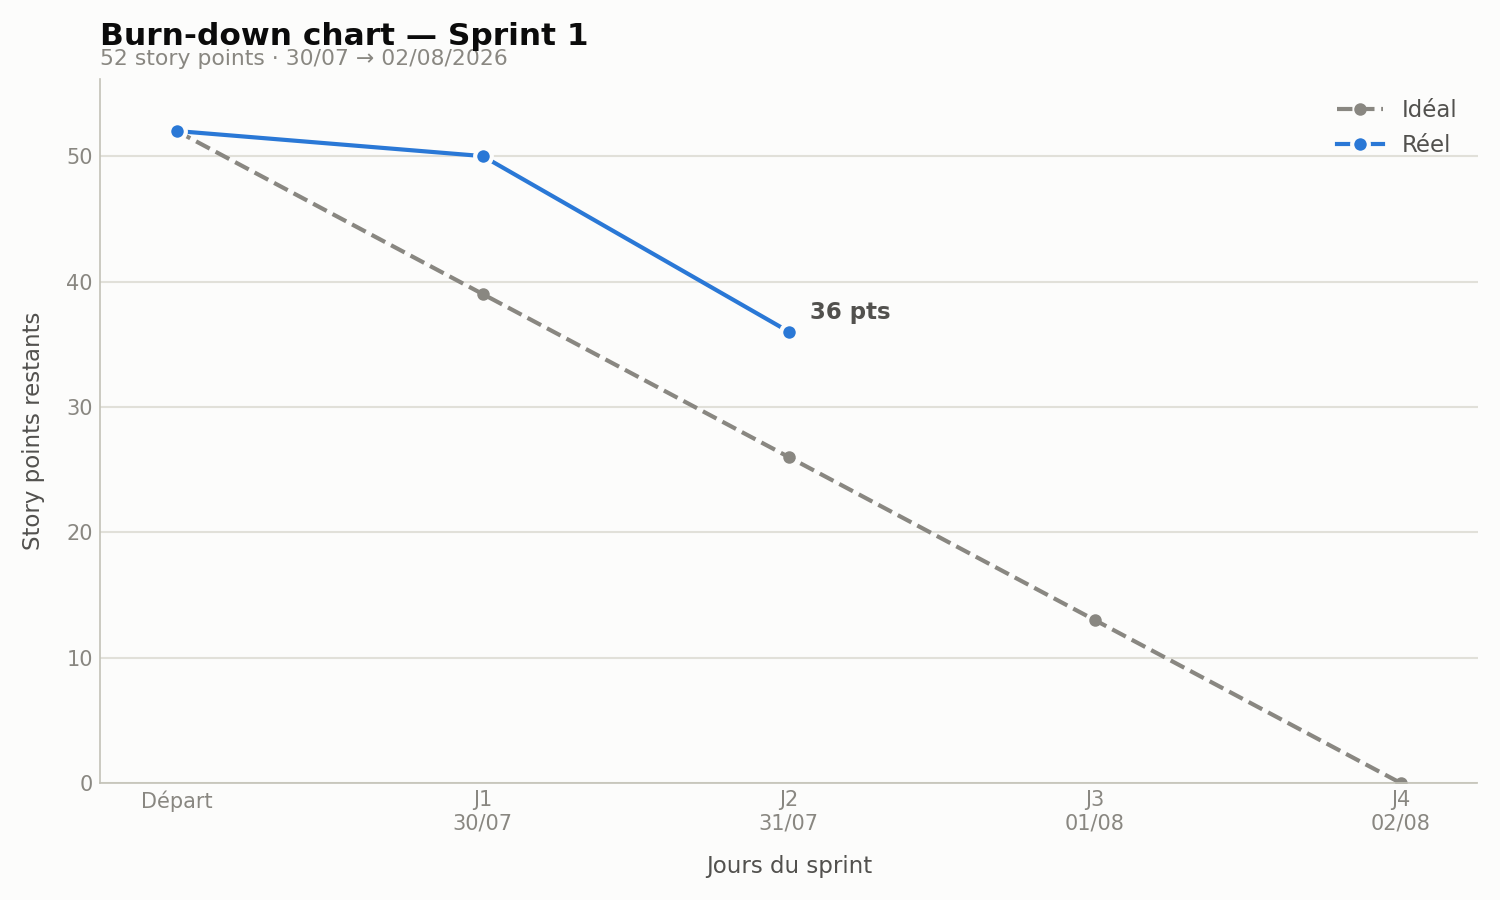
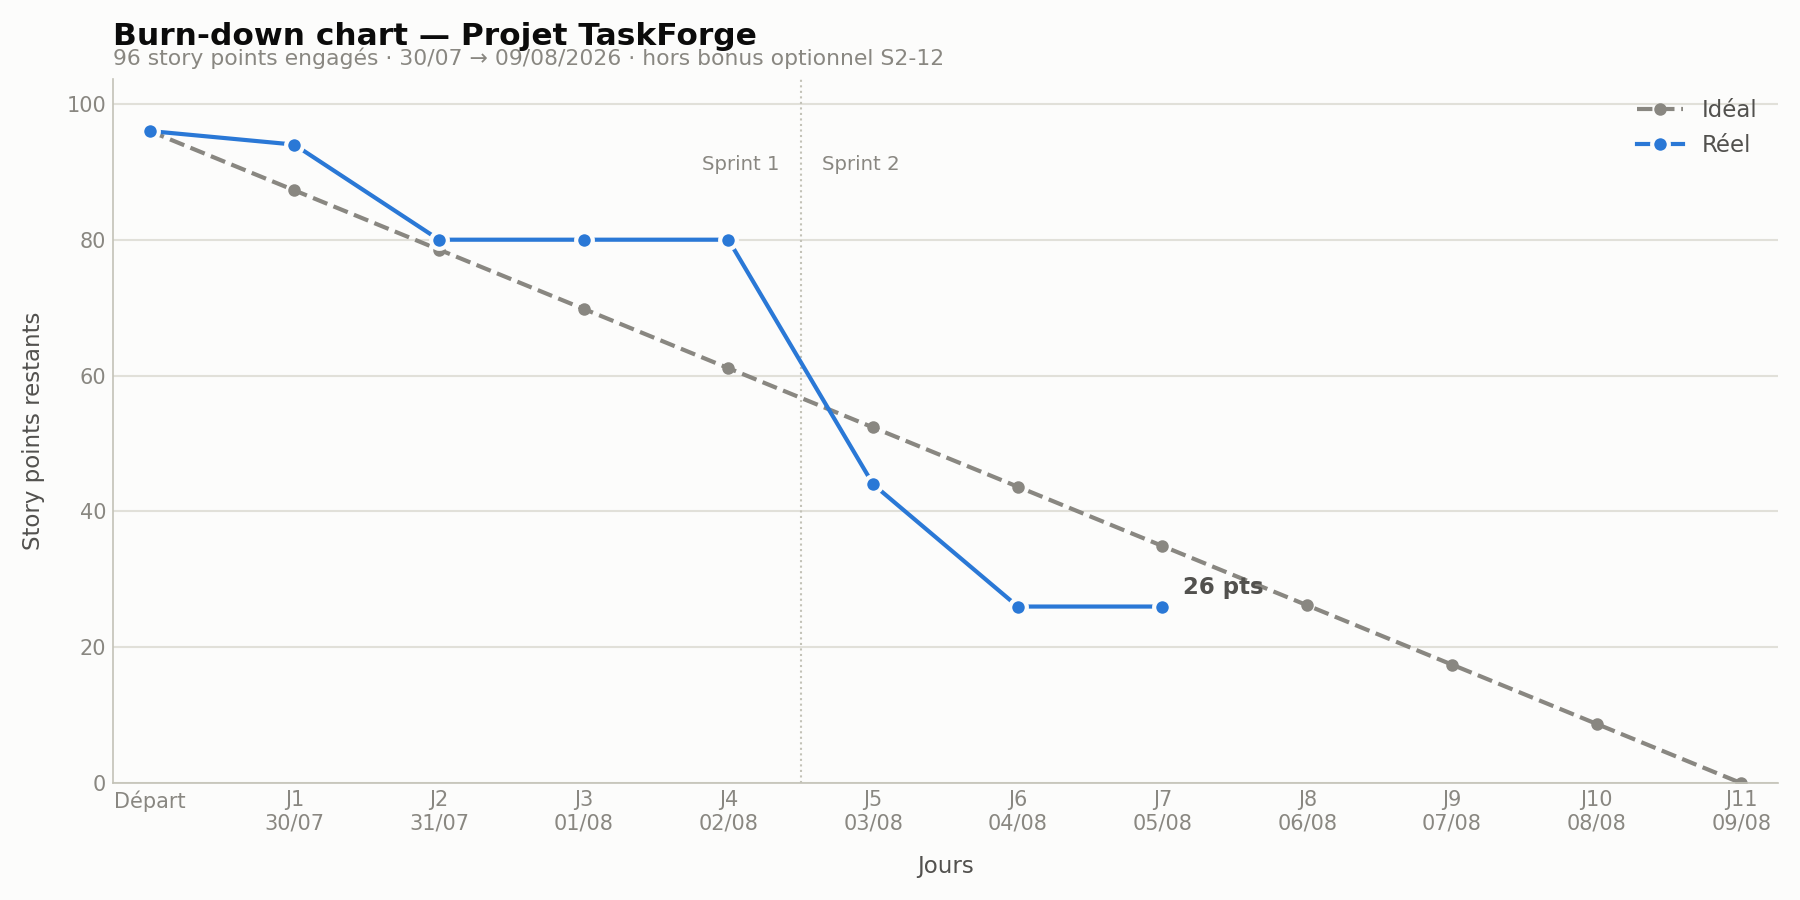
pm: remettre le burn-down à jour et le rendre multi-sprint
Le relevé s'arrêtait au 31/07 avec 36 points restants, alors que 34 points
ont été livrés depuis. Le script était par ailleurs verrouillé sur le
sprint 1 (SPRINT_END = 02/08) et levait une erreur sur toute date
postérieure, ce qui rendait la mise à jour quotidienne impossible.

Données
- Ajout des relevés du 01/08 au 05/08, reconstitués à partir des dates de
  merge des PR #30, #31, #32 et #33.
- Les entrées du 30/07 et du 31/07 sont conservées telles quelles : le
  commit de S1-03 est daté du 31/07 15h30, la PR n'a été mergée que le
  lundi suivant. Le relevé d'origine reflète bien le travail terminé.
- Le CSV porte désormais deux échelles, sprint et projet, pour alimenter
  les deux types de courbe sans dérivation ambiguë.

Script
- Configuration par liste de sprints au lieu de constantes uniques.
- Validation : chaque relevé doit tomber dans les bornes du sprint qu'il
  déclare, avec un message d'erreur explicite.
- Trois sorties : burndown.png (vue projet, livrable du CDC),
  burndown-sprint-1.png et burndown-sprint-2.png.

Périmètre retenu : 96 points, soit les 104 du backlog moins les 8 points
de S2-12, bonus explicitement optionnel. Suivre l'optionnel ferait
paraître la courbe en retard sur du travail jamais engagé.

Le sprint 1 se termine à 36 points restants sur 52, soit 16 points de
vélocité et 36 points reportés. La ligne de base du sprint 2 est donc de
80 points et non 44.

diff --git a/pm/generate_burndown.py b/pm/generate_burndown.py
@@ -1,25 +1,57 @@
-"""Génère le burn-down chart du sprint à partir de pm/burndown-data.csv.
+"""Génère les burn-down charts du projet à partir de pm/burndown-data.csv.
 
 Usage : python pm/generate_burndown.py
 
-Pour la mise à jour quotidienne, ajouter une ligne dans burndown-data.csv
-(date, points restants en fin de journée, commentaire) puis relancer ce script.
+Pour la mise à jour quotidienne, ajouter une ligne dans burndown-data.csv puis
+relancer ce script. Les colonnes attendues sont :
+
+    date                      jour concerné (ISO)
+    sprint                    numéro du sprint (1 ou 2)
+    points_restants_sprint    reste à faire en fin de journée, à l'échelle du sprint
+    points_restants_projet    reste à faire en fin de journée, à l'échelle des 2 semaines
+    commentaire               ce qui a été livré ce jour-là
+
+Trois fichiers sont produits :
+
+    burndown.png            vue projet sur les 2 semaines (livrable attendu au CDC)
+    burndown-sprint-1.png   détail du sprint 1
+    burndown-sprint-2.png   détail du sprint 2
+
+Les 36 points non terminés à la fin du sprint 1 sont reportés dans le périmètre
+du sprint 2 : sa ligne de base est donc 80 pts (36 reportés + 44 engagés) et non
+44. C'est ce report qui explique la marche de la courbe réelle au 03/08.
 """
 
 import csv
 from datetime import date, timedelta
 from pathlib import Path
+from typing import NamedTuple
 
 import matplotlib
 
 matplotlib.use("Agg")
 import matplotlib.pyplot as plt
 
-# --- Configuration du sprint ---------------------------------------------
-SPRINT_NAME = "Sprint 1"
-SPRINT_START = date(2026, 7, 30)
-SPRINT_END = date(2026, 8, 2)  # weekend inclus
-TOTAL_POINTS = 52
+
+# --- Configuration des sprints -------------------------------------------
+class Sprint(NamedTuple):
+    numero: int
+    debut: date
+    fin: date  # weekend inclus
+    points: int
+
+
+SPRINTS = [
+    Sprint(numero=1, debut=date(2026, 7, 30), fin=date(2026, 8, 2), points=52),
+    Sprint(numero=2, debut=date(2026, 8, 3), fin=date(2026, 8, 9), points=80),
+]
+
+# Périmètre engagé sur les 2 semaines : 104 pts au backlog moins les 8 pts de
+# S2-12, bonus explicitement optionnel. Le burn-down suit l'engagement, pas
+# l'optionnel — sinon la courbe paraît en retard sur du travail jamais promis.
+PROJET_POINTS = 96
+PROJET_DEBUT = SPRINTS[0].debut
+PROJET_FIN = SPRINTS[-1].fin
 
 # --- Palette (surface claire) --------------------------------------------
 SURFACE = "#fcfcfb"
@@ -33,53 +65,66 @@ SERIE_REEL = "#2a78d6"
 PM_DIR = Path(__file__).parent
 
 
-def sprint_days():
-    """Liste des jours du sprint, bornes incluses."""
-    days = []
-    current = SPRINT_START
-    while current <= SPRINT_END:
-        days.append(current)
-        current += timedelta(days=1)
-    return days
+def jours(debut, fin):
+    """Liste des jours entre deux bornes, incluses."""
+    resultat = []
+    courant = debut
+    while courant <= fin:
+        resultat.append(courant)
+        courant += timedelta(days=1)
+    return resultat
 
 
-def load_actuals():
-    """Lit le CSV et retourne {date: points_restants}."""
-    actuals = {}
+def charger_releves():
+    """Lit le CSV et retourne la liste des relevés, triée par date."""
+    releves = []
     with open(PM_DIR / "burndown-data.csv", encoding="utf-8") as f:
-        for row in csv.DictReader(f):
-            jour = date.fromisoformat(row["date"].strip())
-            actuals[jour] = float(row["points_restants"])
-    return actuals
+        for ligne in csv.DictReader(f):
+            releves.append(
+                {
+                    "date": date.fromisoformat(ligne["date"].strip()),
+                    "sprint": int(ligne["sprint"]),
+                    "sprint_restant": float(ligne["points_restants_sprint"]),
+                    "projet_restant": float(ligne["points_restants_projet"]),
+                    "commentaire": ligne["commentaire"],
+                }
+            )
+    return sorted(releves, key=lambda r: r["date"])
 
 
-def main():
-    days = sprint_days()
-    actuals = load_actuals()
+def valider(releves):
+    """Vérifie que chaque relevé tombe dans le sprint qu'il déclare."""
+    par_numero = {s.numero: s for s in SPRINTS}
+    for releve in releves:
+        sprint = par_numero.get(releve["sprint"])
+        if sprint is None:
+            raise SystemExit(
+                f"{releve['date'].isoformat()} : sprint {releve['sprint']} inconnu."
+            )
+        if not sprint.debut <= releve["date"] <= sprint.fin:
+            raise SystemExit(
+                f"{releve['date'].isoformat()} est déclaré dans le sprint "
+                f"{sprint.numero} mais sort de ses bornes "
+                f"({sprint.debut.isoformat()} → {sprint.fin.isoformat()})."
+            )
 
-    inconnues = sorted(d for d in actuals if d not in days)
-    if inconnues:
-        raise SystemExit(
-            "Dates hors du sprint dans burndown-data.csv : "
-            + ", ".join(d.isoformat() for d in inconnues)
-        )
 
-    # Axe X : un point de départ (avant J1) puis chaque jour du sprint.
-    x = list(range(len(days) + 1))
-    labels = ["Départ"] + [f"J{i}\n{d.strftime('%d/%m')}" for i, d in enumerate(days, 1)]
+def tracer(titre, sous_titre, plage, total, reel_par_jour, sortie, largeur=10):
+    """Trace un burn-down : ligne idéale en pointillés, ligne réelle pleine."""
+    x = list(range(len(plage) + 1))
+    labels = ["Départ"] + [f"J{i}\n{d.strftime('%d/%m')}" for i, d in enumerate(plage, 1)]
+    ideal = [total - (total / len(plage)) * i for i in range(len(plage) + 1)]
 
-    # Ligne idéale : décroissance linéaire de TOTAL_POINTS à 0.
-    ideal = [TOTAL_POINTS - (TOTAL_POINTS / len(days)) * i for i in range(len(days) + 1)]
-
-    # Ligne réelle : s'arrête au dernier jour renseigné.
-    reel_x, reel_y = [0], [float(TOTAL_POINTS)]
-    for i, jour in enumerate(days, 1):
-        if jour not in actuals:
+    # La ligne réelle s'arrête au dernier jour renseigné : une courbe qui
+    # plongerait à 0 sur des jours non encore vécus serait mensongère.
+    reel_x, reel_y = [0], [float(total)]
+    for i, jour in enumerate(plage, 1):
+        if jour not in reel_par_jour:
             break
         reel_x.append(i)
-        reel_y.append(actuals[jour])
+        reel_y.append(reel_par_jour[jour])
 
-    fig, ax = plt.subplots(figsize=(10, 6), dpi=150)
+    fig, ax = plt.subplots(figsize=(largeur, 6), dpi=150)
     fig.patch.set_facecolor(SURFACE)
     ax.set_facecolor(SURFACE)
 
@@ -97,7 +142,19 @@ def main():
         label="Réel", zorder=3,
     )
 
-    # Label direct sur le dernier point réel uniquement.
+    # Frontière entre les deux sprints, seulement sur la vue projet.
+    if plage[0] == PROJET_DEBUT and plage[-1] == PROJET_FIN:
+        frontiere = len(jours(SPRINTS[0].debut, SPRINTS[0].fin)) + 0.5
+        ax.axvline(frontiere, color=AXIS, linewidth=1, linestyle=":", zorder=1)
+        ax.text(
+            frontiere - 0.15, total * 0.94, "Sprint 1",
+            color=INK_MUTED, fontsize=9.5, ha="right",
+        )
+        ax.text(
+            frontiere + 0.15, total * 0.94, "Sprint 2",
+            color=INK_MUTED, fontsize=9.5, ha="left",
+        )
+
     ax.annotate(
         f"{reel_y[-1]:.0f} pts",
         xy=(reel_x[-1], reel_y[-1]),
@@ -106,21 +163,19 @@ def main():
     )
 
     ax.set_title(
-        f"Burn-down chart — {SPRINT_NAME}",
-        color=INK_PRIMARY, fontsize=15, fontweight="bold", pad=16, loc="left",
+        titre, color=INK_PRIMARY, fontsize=15, fontweight="bold", pad=16, loc="left",
     )
-    periode = f"{SPRINT_START.strftime('%d/%m')} → {SPRINT_END.strftime('%d/%m/%Y')}"
     ax.text(
-        0, 1.02, f"{TOTAL_POINTS} story points · {periode}",
+        0, 1.02, sous_titre,
         transform=ax.transAxes, color=INK_MUTED, fontsize=10.5,
     )
 
-    ax.set_xlabel("Jours du sprint", color=INK_SECONDARY, fontsize=11, labelpad=10)
+    ax.set_xlabel("Jours", color=INK_SECONDARY, fontsize=11, labelpad=10)
     ax.set_ylabel("Story points restants", color=INK_SECONDARY, fontsize=11, labelpad=10)
     ax.set_xticks(x)
     ax.set_xticklabels(labels)
-    ax.set_ylim(0, TOTAL_POINTS * 1.08)
-    ax.set_xlim(-0.25, len(days) + 0.25)
+    ax.set_ylim(0, total * 1.08)
+    ax.set_xlim(-0.25, len(plage) + 0.25)
 
     ax.grid(axis="y", color=GRIDLINE, linewidth=1, zorder=0)
     ax.set_axisbelow(True)
@@ -135,9 +190,52 @@ def main():
         texte.set_color(INK_SECONDARY)
 
     fig.tight_layout()
-    sortie = PM_DIR / "burndown.png"
     fig.savefig(sortie, facecolor=SURFACE)
+    plt.close(fig)
     print(f"Généré : {sortie}")
+
+
+def main():
+    releves = charger_releves()
+    valider(releves)
+
+    # Vue projet.
+    tracer(
+        titre="Burn-down chart — Projet TaskForge",
+        sous_titre=(
+            f"{PROJET_POINTS} story points engagés · "
+            f"{PROJET_DEBUT.strftime('%d/%m')} → {PROJET_FIN.strftime('%d/%m/%Y')} · "
+            "hors bonus optionnel S2-12"
+        ),
+        plage=jours(PROJET_DEBUT, PROJET_FIN),
+        total=PROJET_POINTS,
+        reel_par_jour={r["date"]: r["projet_restant"] for r in releves},
+        sortie=PM_DIR / "burndown.png",
+        largeur=12,
+    )
+
+    # Vue par sprint.
+    for sprint in SPRINTS:
+        reel = {
+            r["date"]: r["sprint_restant"]
+            for r in releves
+            if r["sprint"] == sprint.numero
+        }
+        report = ""
+        if sprint.numero == 2:
+            report = " · dont 36 pts reportés du sprint 1"
+        tracer(
+            titre=f"Burn-down chart — Sprint {sprint.numero}",
+            sous_titre=(
+                f"{sprint.points} story points · "
+                f"{sprint.debut.strftime('%d/%m')} → {sprint.fin.strftime('%d/%m/%Y')}"
+                f"{report}"
+            ),
+            plage=jours(sprint.debut, sprint.fin),
+            total=sprint.points,
+            reel_par_jour=reel,
+            sortie=PM_DIR / f"burndown-sprint-{sprint.numero}.png",
+        )
 
 
 if __name__ == "__main__":
